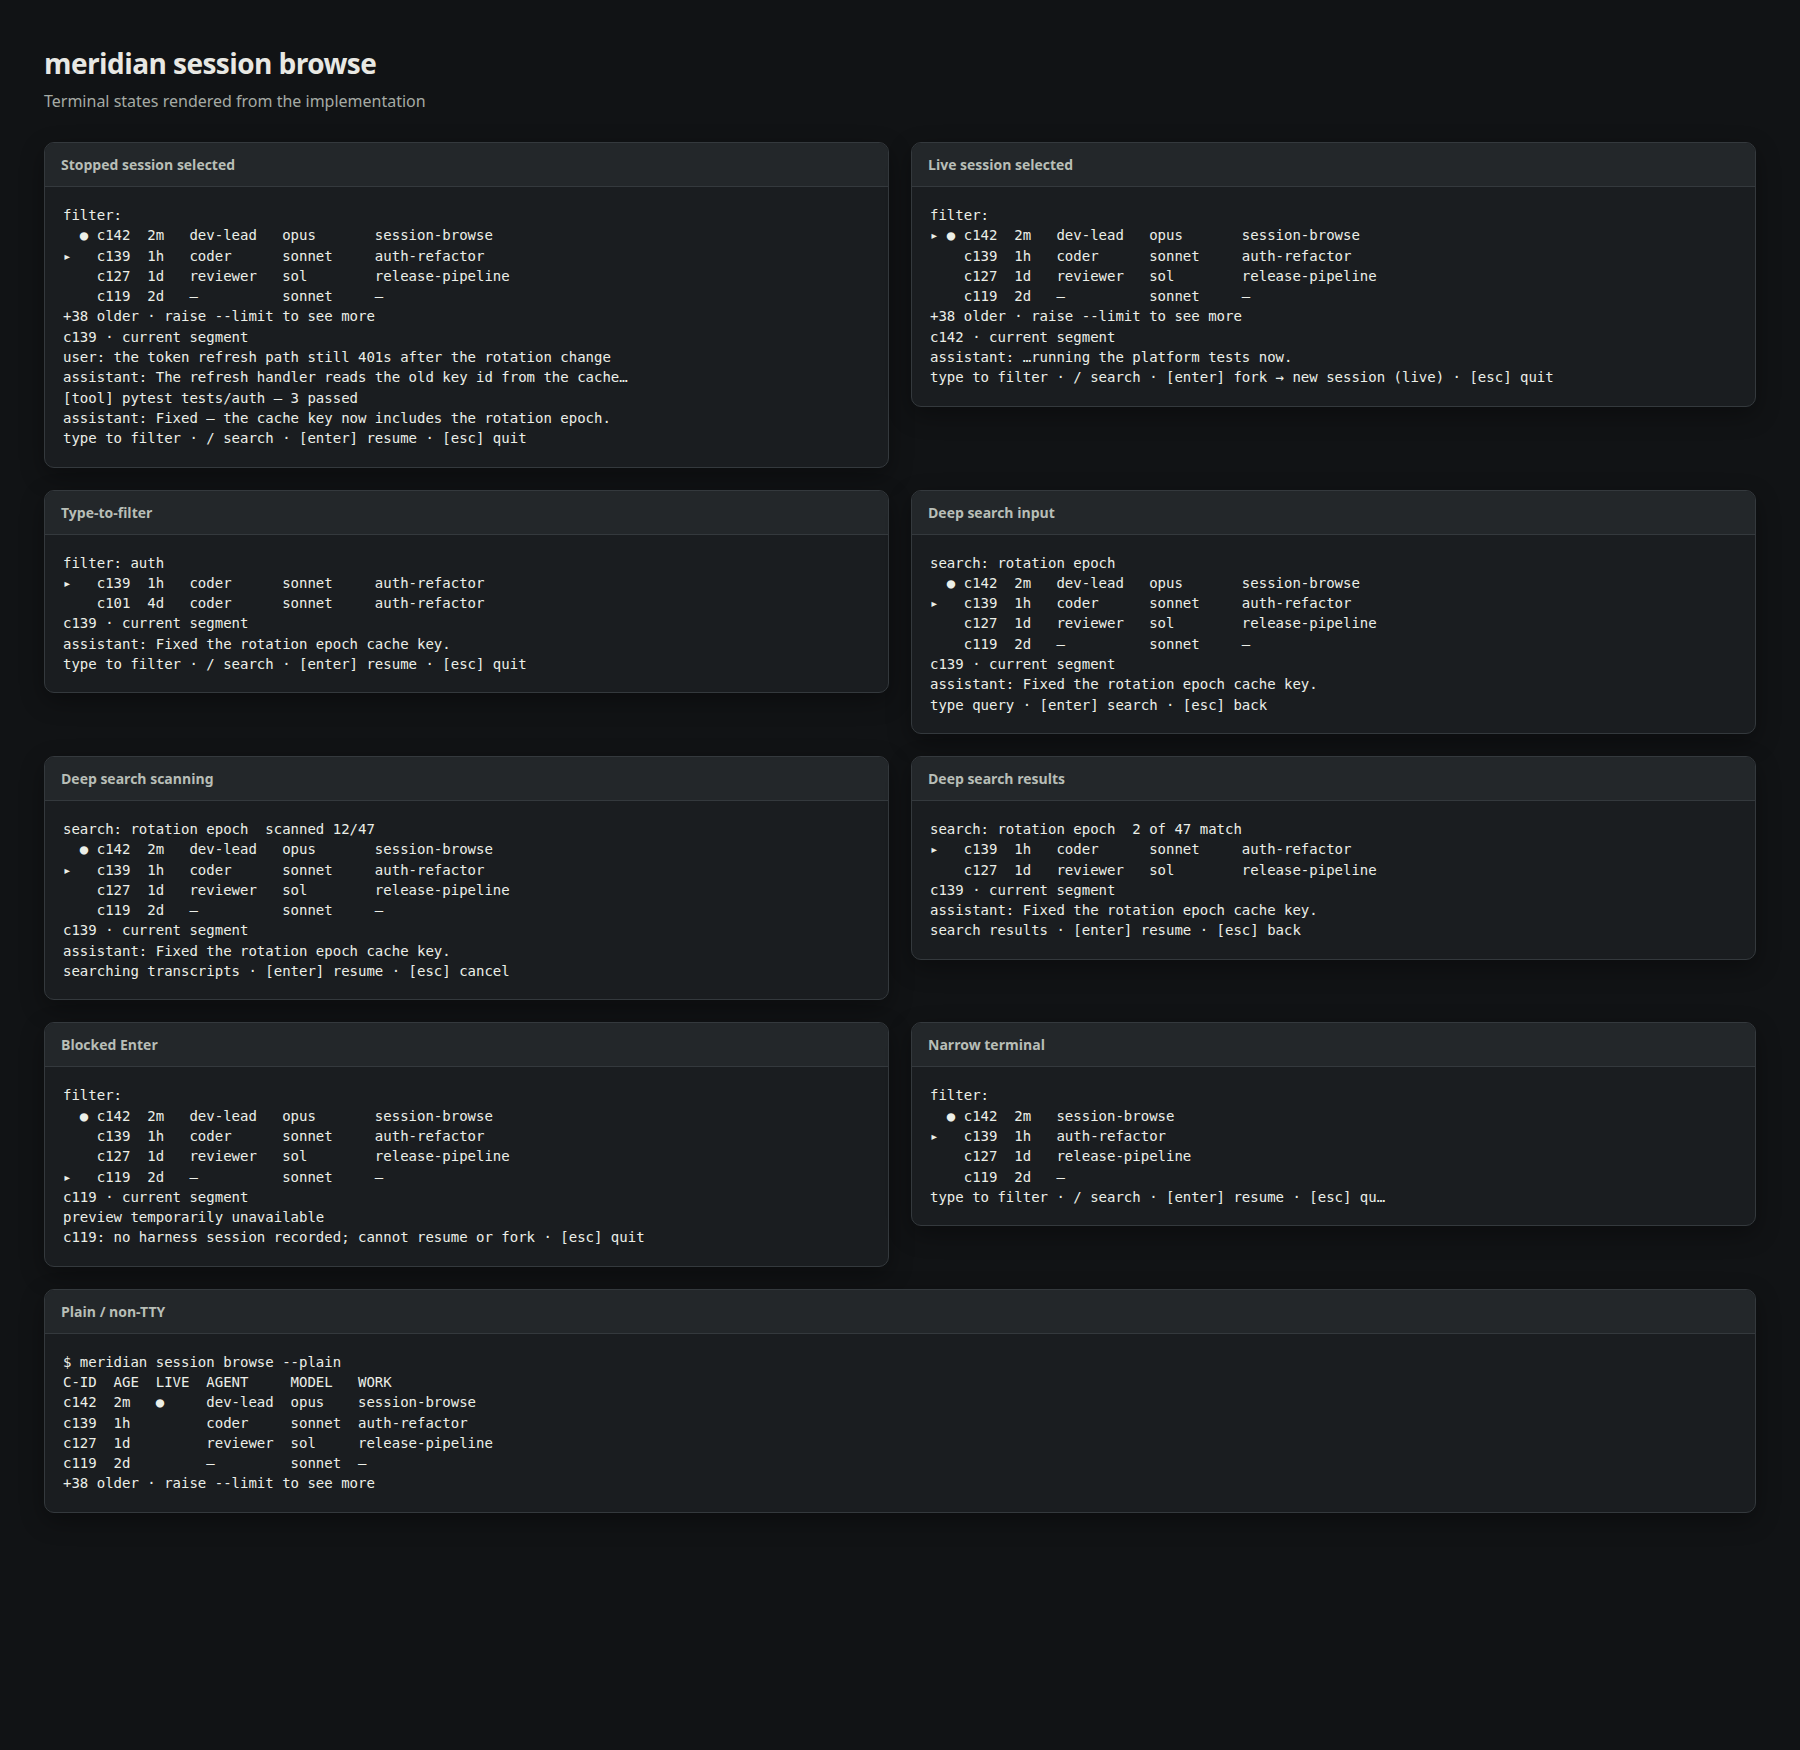
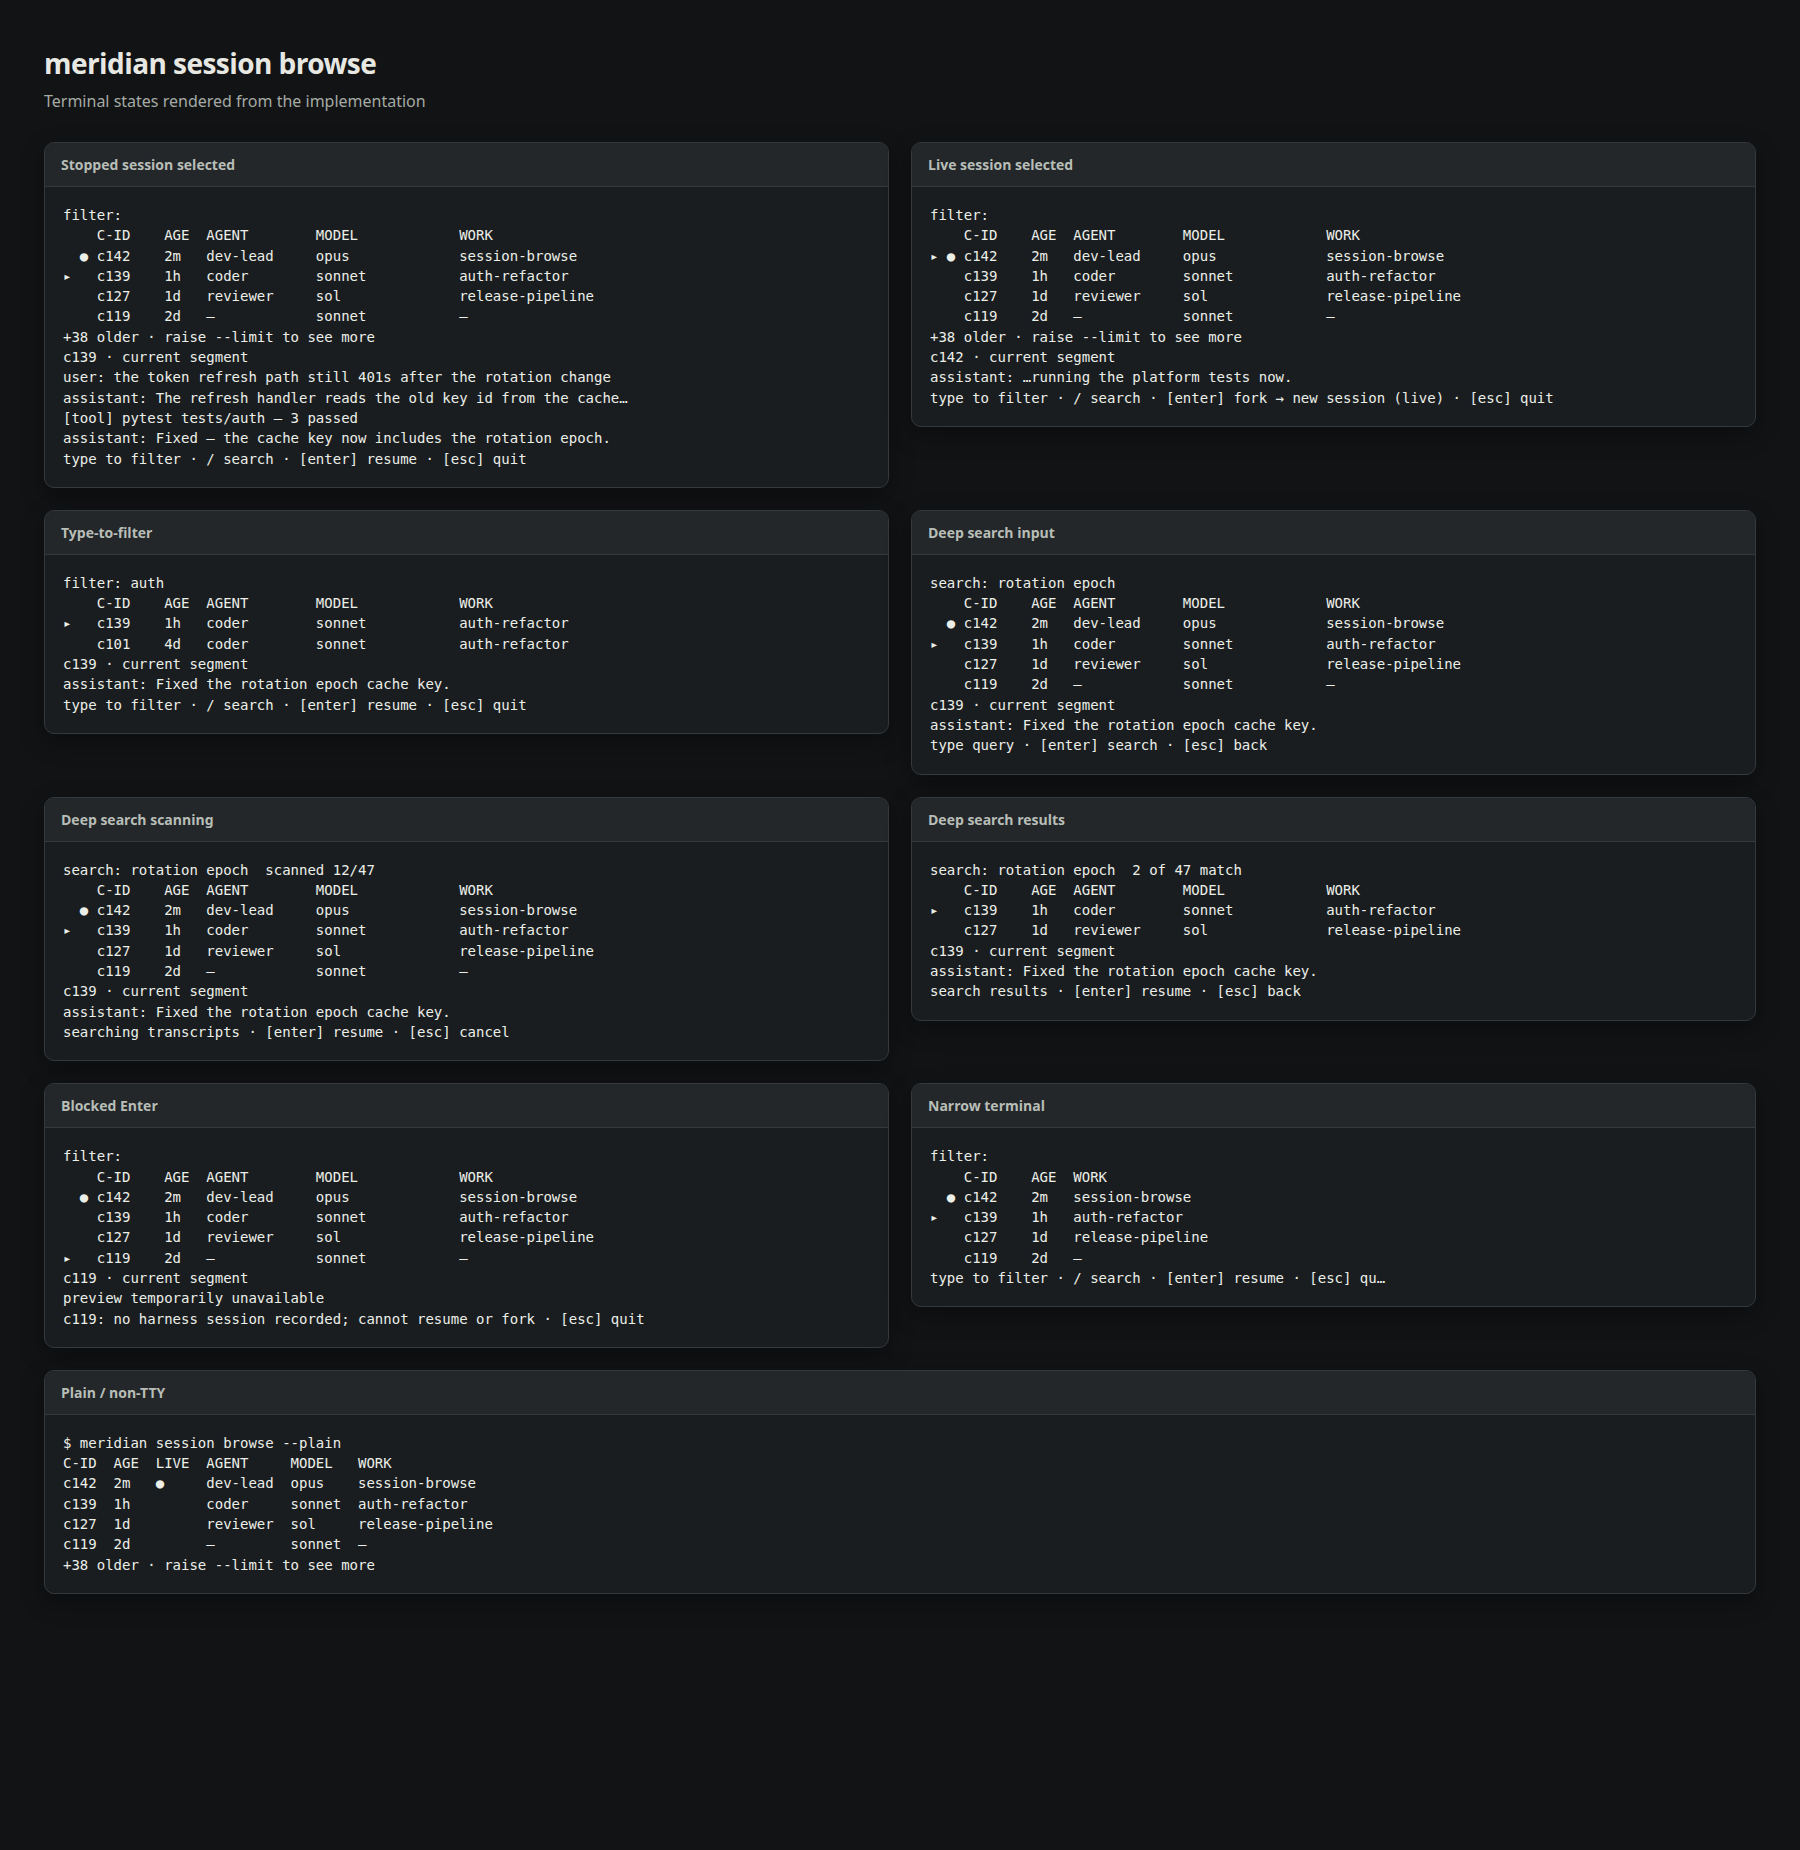
Align session browser columns

diff --git a/src/meridian/cli/browse/render.py b/src/meridian/cli/browse/render.py
@@ -11,6 +11,12 @@ from meridian.cli.browse.model import BrowseModel
 from meridian.lib.core.formatting import relative_time
 from meridian.lib.ops.session_reentry import Blocked, Fork, SessionReentryDecision
 
+_WIDE_LIST_WIDTH = 60
+_CHAT_ID_WIDTH = 7
+_AGE_WIDTH = 4
+_AGENT_WIDTH = 12
+_MODEL_WIDTH = 16
+
 
 def _clip(value: str, width: int) -> str:
     if width <= 0:
@@ -20,6 +26,10 @@ def _clip(value: str, width: int) -> str:
     if width == 1:
         return "…"
     return value[: width - 1].rstrip() + "…"
+
+
+def _cell(value: str, width: int) -> str:
+    return f"{_clip(value, width):<{width}}"
 
 
 def render_status(model: BrowseModel, width: int) -> StyleAndTextTuples:
@@ -36,6 +46,19 @@ def render_status(model: BrowseModel, width: int) -> StyleAndTextTuples:
     return [("class:status", _clip(label, width))]
 
 
+def render_list_header(model: BrowseModel, width: int) -> StyleAndTextTuples:
+    if not model.visible_rows:
+        return []
+    if width < _WIDE_LIST_WIDTH:
+        line = f"    {_cell('C-ID', _CHAT_ID_WIDTH)} {_cell('AGE', _AGE_WIDTH)} WORK"
+    else:
+        line = (
+            f"    {_cell('C-ID', _CHAT_ID_WIDTH)} {_cell('AGE', _AGE_WIDTH)} "
+            f"{_cell('AGENT', _AGENT_WIDTH)} {_cell('MODEL', _MODEL_WIDTH)} WORK"
+        )
+    return [("class:list-header", _clip(line, width))]
+
+
 def render_list(model: BrowseModel, width: int) -> StyleAndTextTuples:
     rows = model.visible_rows
     if not rows:
@@ -49,12 +72,17 @@ def render_list(model: BrowseModel, width: int) -> StyleAndTextTuples:
         marker = "▸" if selected else " "
         live = "●" if row.live else " "
         age = relative_time(row.activity_at).removesuffix(" ago")
-        if width < 60:
-            line = f"{marker} {live} {row.chat_id:<5} {age:<4} {row.work_label or '—'}"
+        prefix = f"{marker} {live} "
+        if width < _WIDE_LIST_WIDTH:
+            line = (
+                f"{prefix}{_cell(row.chat_id, _CHAT_ID_WIDTH)} "
+                f"{_cell(age, _AGE_WIDTH)} {row.work_label or '—'}"
+            )
         else:
             line = (
-                f"{marker} {live} {row.chat_id:<5} {age:<4} "
-                f"{(row.agent or '—'):<10} {(row.model or '—'):<10} {row.work_label or '—'}"
+                f"{prefix}{_cell(row.chat_id, _CHAT_ID_WIDTH)} {_cell(age, _AGE_WIDTH)} "
+                f"{_cell(row.agent or '—', _AGENT_WIDTH)} "
+                f"{_cell(row.model or '—', _MODEL_WIDTH)} {row.work_label or '—'}"
             )
         style = "class:selected" if selected else "class:row"
         fragments.append((style, _clip(line, width)))
@@ -114,4 +142,10 @@ def render_footer(model: BrowseModel, width: int) -> StyleAndTextTuples:
     return [("class:footer", _clip(text, width))]
 
 
-__all__ = ["render_footer", "render_list", "render_preview", "render_status"]
+__all__ = [
+    "render_footer",
+    "render_list",
+    "render_list_header",
+    "render_preview",
+    "render_status",
+]

diff --git a/src/meridian/cli/browse/tui.py b/src/meridian/cli/browse/tui.py
@@ -38,6 +38,7 @@ from meridian.cli.browse.model import (
 from meridian.cli.browse.render import (
     render_footer,
     render_list,
+    render_list_header,
     render_preview,
     render_status,
 )
@@ -322,6 +323,11 @@ def run_browse_picker(
         width, _height = size()
         return render_list(controller.model, width)
 
+    def list_header_text():
+        controller.drain()
+        width, _height = size()
+        return render_list_header(controller.model, width)
+
     def preview_text():
         controller.drain()
         width, height = size()
@@ -374,6 +380,10 @@ def run_browse_picker(
         controller.handle(Character(event.data))
 
     list_window = Window(FormattedTextControl(list_text), wrap_lines=False)
+    list_header = ConditionalContainer(
+        Window(FormattedTextControl(list_header_text), height=1, wrap_lines=False),
+        filter=Condition(lambda: bool(controller.model.visible_rows)),
+    )
     preview_window = ConditionalContainer(
         Window(FormattedTextControl(preview_text), wrap_lines=False),
         filter=Condition(lambda: size()[0] >= 60),
@@ -381,6 +391,7 @@ def run_browse_picker(
     root = HSplit(
         (
             Window(FormattedTextControl(status_text), height=1),
+            list_header,
             list_window,
             preview_window,
             Window(FormattedTextControl(footer_text), height=1),
@@ -389,6 +400,7 @@ def run_browse_picker(
     style = Style.from_dict(
         {
             "status": "bold",
+            "list-header": "bold fg:ansibrightblack",
             "selected": "reverse",
             "live": "fg:ansigreen",
             "preview-title": "bold",

diff --git a/tests/unit/cli/test_session_browse.py b/tests/unit/cli/test_session_browse.py
@@ -5,6 +5,7 @@ from datetime import UTC, datetime
 
 import pytest
 
+from meridian.cli.browse import render as browse_render
 from meridian.cli.browse.model import (
     Activate,
     Backspace,
@@ -152,6 +153,34 @@ def test_list_renders_older_count_as_nonselectable_trailer() -> None:
 
     model.older_count = 0
     assert "older" not in _text(render_list(model, 80))
+
+
+def test_list_header_and_rows_share_fixed_column_starts() -> None:
+    first = _row("c123", work="session-browse").model_copy(
+        update={"agent": "product-lead-extra", "model": "claude-fable-5-extra"}
+    )
+    second = _row("c124", work="auth-refactor")
+    model = BrowseModel((first, second))
+
+    header = _text(browse_render.render_list_header(model, 100))
+    lines = _text(render_list(model, 100)).splitlines()
+
+    assert all(title in header for title in ("C-ID", "AGE", "AGENT", "MODEL", "WORK"))
+    work_column = header.index("WORK")
+    assert lines[0][work_column:].startswith("session-browse")
+    assert lines[1][work_column:].startswith("auth-refactor")
+
+
+def test_narrow_list_header_omits_hidden_columns() -> None:
+    model = BrowseModel((_row("c123", work="session-browse"),))
+
+    header = _text(browse_render.render_list_header(model, 50))
+
+    assert "C-ID" in header
+    assert "AGE" in header
+    assert "WORK" in header
+    assert "AGENT" not in header
+    assert "MODEL" not in header
 
 
 @pytest.mark.parametrize(

diff --git a/CHANGELOG.md b/CHANGELOG.md
@@ -14,6 +14,8 @@ Caveman style. Format: [Keep a Changelog](https://keepachangelog.com/en/1.1.0/).
 
 - Open the session browser promptly in projects with large session and spawn
   histories.
+- Show session-browser column headers and keep rows aligned across varying
+  agent and model label lengths.
 - Materialize Codex forks from complete, validated rollout records and remove
   the published fork if Codex thread registration fails.
 - Fall back with a destination-naming warning when a work item's task directory
